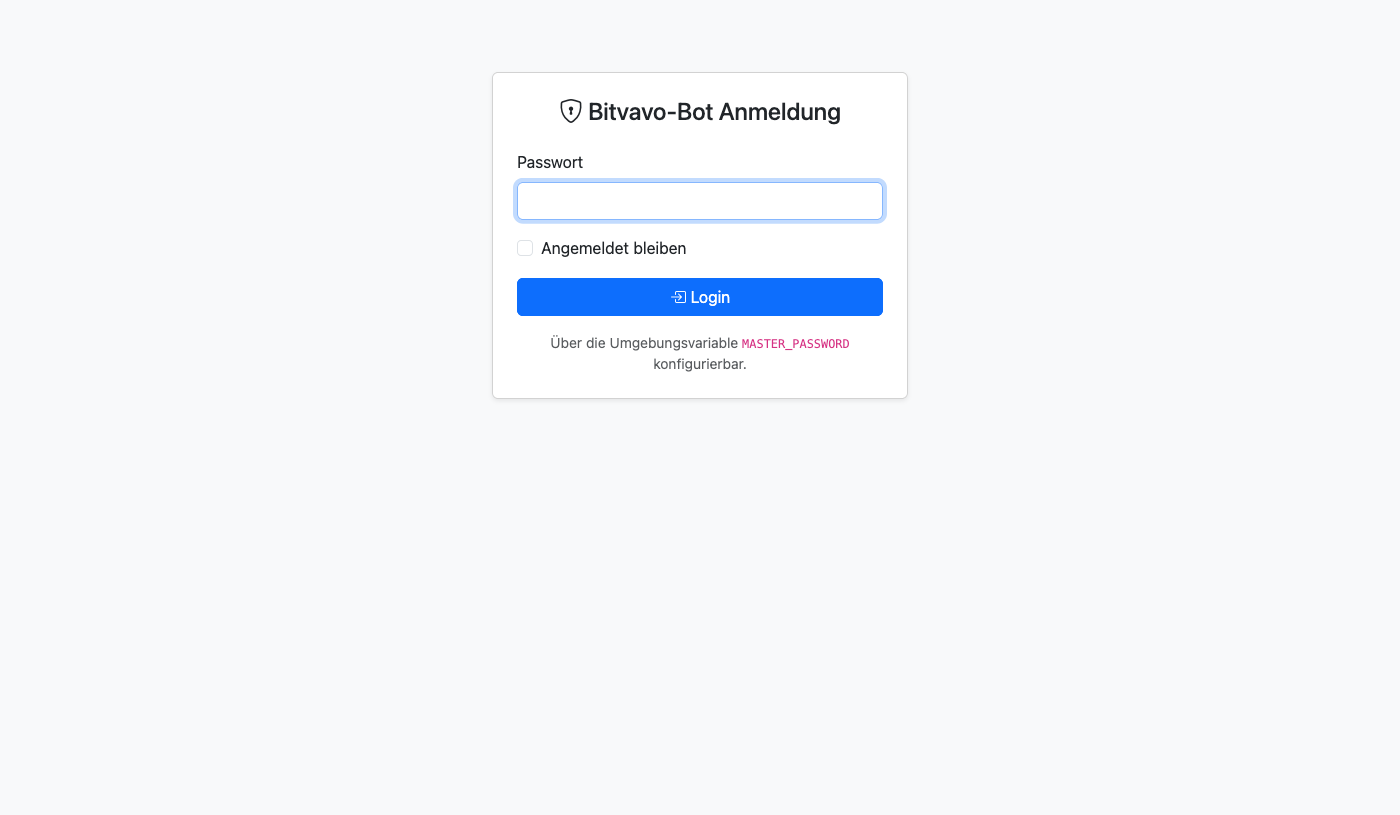
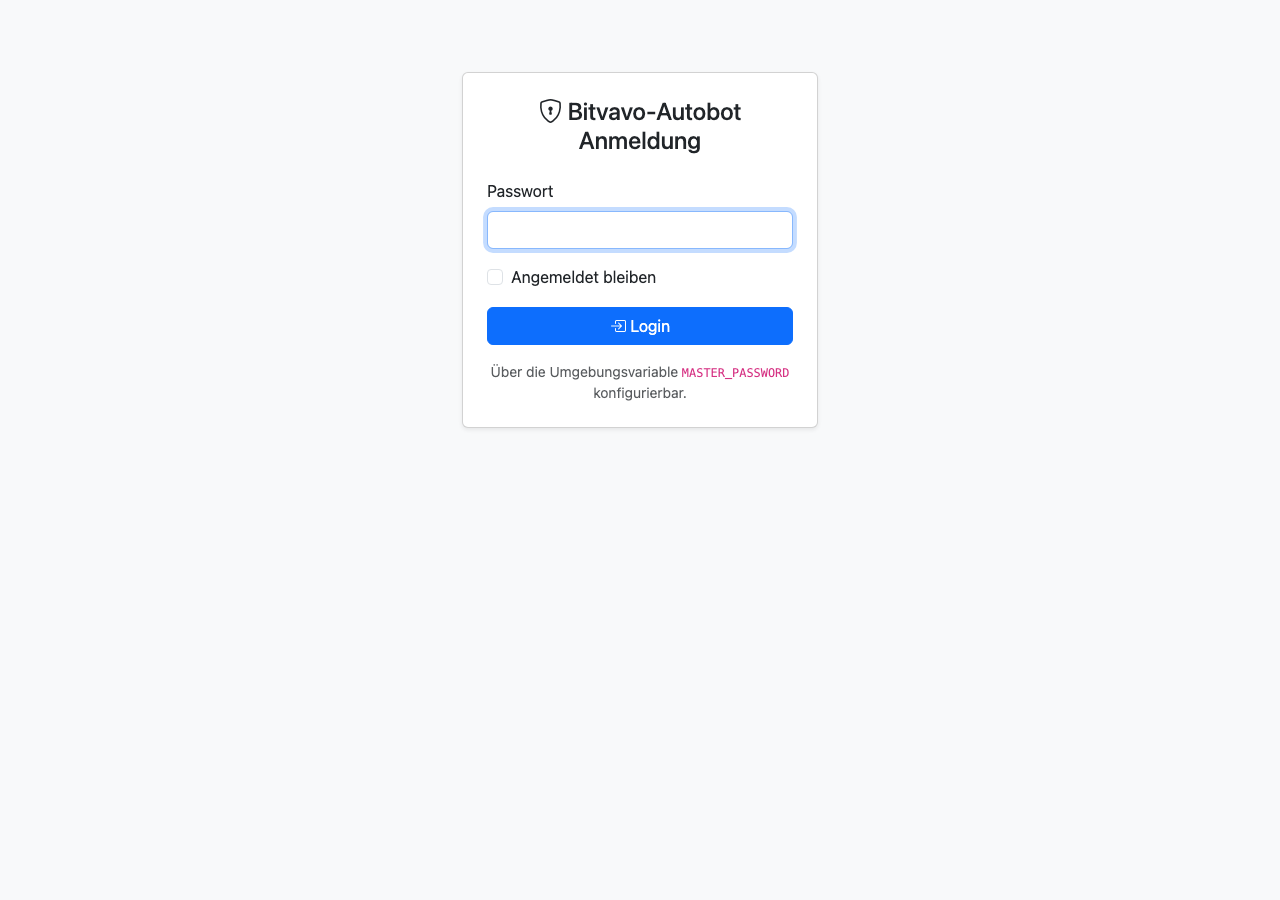
docs: replace screenshots with authenticated logged-in views

Changed region(s): [[0.3438, 0.184, 0.6562, 0.4601], [0.4062, 0.092, 0.625, 0.184]]

diff --git a/README.md b/README.md
@@ -53,7 +53,7 @@ Repository [bitvavo/python-bitvavo-api](https://github.com/bitvavo/python-bitvav
   Zeitzone, DB-/Log-Pfad mit Größe, Eintrags-Zählungen, Betriebsmodus (Simulation/Echtbetrieb),
   API-Key-Status inkl. Berechtigungen, Startup-Selbstcheck-Ergebnisse, Scheduler-Status.
 - **Healthcheck**: `/health` (ohne Login) als maschinenlesbares JSON für Docker und
-  `verifizieren.sh`. Ein Bash-Skript `verifizieren.sh` prüft Erreichbarkeit, /health,
+  sowie Gesundheit (`/health`, Logs, Prozess, Port).
   lokale Dateien und Python-Umgebung (optional `--strict`).
 
 ---
@@ -134,22 +134,19 @@ Alle Screenshots wurden mit **Playwright** direkt aus dem laufenden App generier
 
 | Bild | Inhalt |
 |------|--------|
-| [`screen/01_login.png`](screen/01_login.png) | Anmeldung |
-| [`screen/02_dashboard.png`](screen/02_dashboard.png) | Dashboard (Gesamtwert, Chart, Guthaben, Kryptowährungen) |
-| [`screen/03_positions.png`](screen/03_positions.png) | Meine Kryptowährungen (Positionen) |
-| [`screen/04_wizard_anlegen.png`](screen/04_wizard_anlegen.png) | Zeitplan anlegen (Wizard) |
-| [`screen/05_wizard_bestätigung.png`](screen/05_wizard_bestätigung.png) | Zeitplan gespeichert (Vorschau) |
-| [`screen/06_trades.png`](screen/06_trades.png) | Trades |
-| [`screen/07_portfolio.png`](screen/07_portfolio.png) | Portfolio & Steuern |
-| [`screen/08_einstellungen.png`](screen/08_einstellungen.png) | Einstellungen (API-Key, Berechtigungen) |
-| [`screen/09_system.png`](screen/09_system.png) | System |
-| [`screen/10_chart_toggle.png`](screen/10_chart_toggle.png) | Chart-Ansicht (BTC-EUR / Portfolio-Wert) |
+| `screen/01_login.png` | Login |
+| `screen/02_dashboard.png` | Dashboard (Gesamtwert, Chart, Guthaben, Kryptowährungen) |
+| `screen/03_portfolio.png` | Portfolio & Steuern |
+| `screen/04_schedule.png` | Zeitpläne (DCA) |
+| `screen/05_simulation.png` | Simulation |
+| `screen/06_settings.png` | Einstellungen |
+| `screen/07_chart.png` | Chart-Ansicht |
 
 ### Hinweis
 
-Die Screenshots enthalten keine echten Daten, API-Keys oder Secrets. Für das Portfolio
-muss man die Bilder mit eigenen Daten aufnehmen (z. B. Screenshots aus dem eigenen Browser).
-Siehe `screen/SCREENSHOTS.md` für Details zum Umgang mit echten Daten.
+Die Screenshots wurden in einer authentifizierten **Playwright-Session** mit
+`SIMULATION_MODE=true` aufgenommen und enthalten **keine echten API-Keys, Secrets
+oder persönlichen Daten**.
 
 ---
 
@@ -165,6 +162,34 @@ Siehe `screen/SCREENSHOTS.md` für Details zum Umgang mit echten Daten.
 | `DB_PATH`          | `data/bitmaster.db`         | Pfad zur SQLite-Datenbank                                                    |
 | `LOG_FILE`         | `data/bitmaster.log`        | Pfad zur Logdatei                                                            |
 | `TZ`               | (Containerzeit)             | Zeitzone für den Scheduler                                                   |
+
+---
+
+## Haftungsausschluss und Einschränkungen
+
+Dieses Projekt dient ausschließlich **Demonstrations- und Lernzwecken**. Es handelt sich nicht um eine produktionsreife Handelssoftware und nicht um eine Steuerberatung.
+
+- **Keine Steuerberatung**: Das enthaltene Steuer-Dashboard (FIFO-Berechnung, Haltefrist, 600-€-Freigrenze) ist eine unverbindliche Hilfestellung zur Selbstorganisation und ersetzt keine individuelle steuerliche Beratung durch einen zugelassenen Steuerberater oder Wirtschaftsprüfer.
+- **Keine Anlageberatung**: Die berechneten Indikatoren, Signale und Verkaufsempfehlungen basieren auf historischen Daten und Heuristiken. Sie begründen keine Kauf- oder Verkaufsempfehlung im rechtlichen Sinne.
+- **Verwendung auf eigene Gefahr**: Der Einsatz mit echten API-Keys und Echtgeld-Orders erfolgt ausschließlich auf eigenes Risiko. Der Autor übernimmt keine Haftung für finanzielle Verluste, Fehlkonfigurationen, Datenverlust oder Schäden jeglicher Art, die aus der Nutzung dieser Software entstehen können.
+
+---
+
+## Sicherheitswarnung — nur für lokale Testumgebungen
+
+Diese Software wurde für den **ausschließlichen Betrieb in lokalen, vertrauenswürdigen Testumgebungen** konzipiert. Sie ist **nicht für den produktiven Einsatz auf öffentlich erreichbaren Servern** geeignet und durchläuft derzeit keine formale Sicherheitsprüfung nach industriellen Standards.
+
+- **Kein produktiver Einsatz**: Betreiben Sie diese Anwendung **nicht** in Netzsegmenten, die aus dem Internet erreichbar sind, und exponieren Sie sie **nicht** ohne weitere Absicherung über Firewalls, Reverse-Proxies oder VPNs.
+- **Fehlende Sicherheitsprüfung**: Es wurden bislang keine Penetrationstests, Code-Audits oder formalen Sicherheitszertifizierungen durchgeführt. Schwachstellen sind nicht ausgeschlossen.
+- **Erforderliche Maßnahmen vor jedem Einsatz**: Vor einer Nutzung außerhalb einer isolierten lokalen Testmaschine sind mindestens folgende Schritte durchzuführen:
+  - Formale Sicherheitsprüfung des gesamten Codes, insbesondere der Authentifizierung, Session-Verwaltung, Eingabevalidierung und Kryptografie
+  - Härtung der Flask-Konfiguration (HTTPS, HSTS, sichere Cookies, CORS-Einschränkungen)
+  - Absicherung des Datenbankzugriffs und der API-Keys (HSM, Secret-Manager, keine Klartextspeicherung)
+  - Regelmäßige Abhängigkeitsprüfungen (`pip-audit`, `safety`) und Updates
+  - Intrusion-Detection, Logging-Monitoring und Incident-Response-Prozess
+- **Sensible Daten**: `.env`, API-Keys, Secrets und die SQLite-Datenbank enthalten hochsensible Informationen. Sie dürfen **niemals** in Versionsverwaltungen, öffentlichen Repositories oder unsicheren Speichern abgelegt werden.
+
+Durch die Nutzung bestätigen Sie, dass Sie die Risiken verstanden haben und die Software nur in der vorgesehenen isolierten Testumgebung einsetzen.
 
 ---
 
@@ -203,33 +228,23 @@ keine Steuerberatung. Für eine verbindliche Aussage einen Steuerberater konsult
 
 ```text
 bitvavo-autobot/
-├── app.py                 # Hauptprogramm
+├── app.py                 # Flask-App
 ├── requirements.txt       # Python-Abhängigkeiten
-├── Dockerfile             # Docker-Image definiert
-├── docker-compose.yml     # Docker-Konfiguration
+├── Dockerfile             # Container-Image
+├── docker-compose.yml     # Compose-Definition
 ├── .env.example           # Konfigurationsvorlage (kein echtes .env!)
 ├── .gitignore            # Ausschluss von sensiblen/lokalen Dateien
-├── verifizieren.sh       # Bash-Prüfskript
-├── LEITFADEN.md           # Bedienungsanleitung
-├── KITAP_NOTES.md         # Statusnotizen für Kitap-Upload (optional)
 ├── templates/             # Web-Oberfläche (Jinja2 + Bootstrap)
 ├── static/               # CSS/JS-Bestandteile
-├── screen/               # (optional) Screenshots für Portfolio
-└── data/                 # (wird ignoriert) Datenbank + Logs — nicht im Kitap!
+├── screen/               # README-Screenshots
+└── data/                 # Datenbank + Logs — wird ignoriert, nicht im Git
 ```
 
 ---
 
 **Wichtiger Hinweis:**
 
-- Das **echte .env** mit Passwörtern/API-Keys/ENCRYPTION_KEY darf **nicht** im Kitap-Archiv
+- Das **echte .env** mit Passwörtern/API-Keys/ENCRYPTION_KEY darf **nicht** in Versionsverwaltungen
   landen. Es ist über `.gitignore` ausgeschlossen. Für die Weitergabe nutzt man nur
   `.env.example` und lässt den Nutzer ein eigenes `.env` erstellen.
-- Der Ordner `data/` (Datenbank, Logs) wird ignoriert und gehört **nicht** ins Archiv.
-
----
-
-**Hinweis zur Verwendung als Portfolio:** Das Projekt ist so aufgebaut, dass man es auf einer
-eigenen Webseite einfach vorstellen kann — mit Screenshots, einer kurzen Beschreibung und der
-Installationsanleitung. Es enthält keine echten Schlüssel oder Secrets und lässt sich leicht
-anpassen oder erweitern.
+- Der Ordner `data/` (Datenbank, Logs) wird ignoriert und gehört **nicht** ins Repository.
